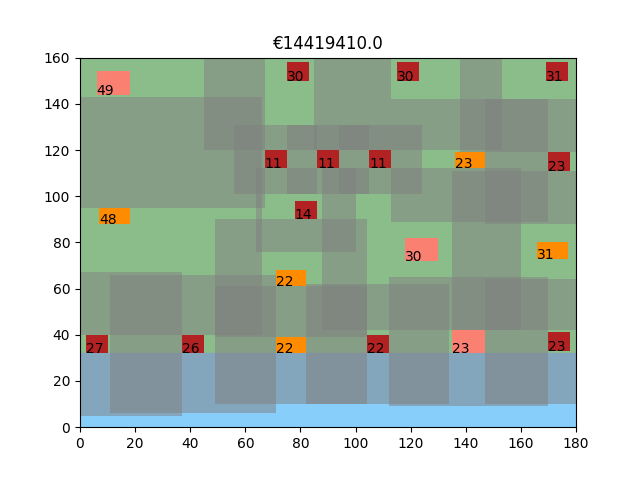
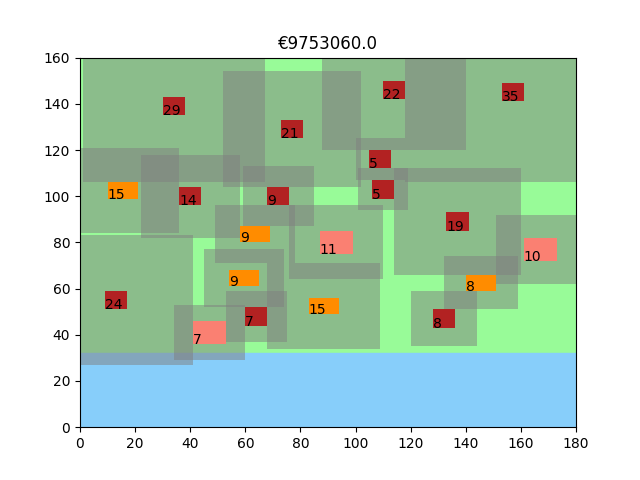
alternatief hillclimber 2 toegevoegd

diff --git a/code/algorithms/hillclimber2.py b/code/algorithms/hillclimber2.py
@@ -3,7 +3,7 @@ from copy import deepcopy
 from code.classes.Amstelhaege import Amstelhaege
 from code.algorithms.random import random
 import time
-from random import shuffle
+from random import shuffle, choice
 
 class Hillclimber_2:
     """
@@ -36,33 +36,76 @@ class Hillclimber_2:
     def run(self, timeout):
         random(self.amstelhaege)
         old_price = self.amstelhaege.price
-        #new_price = self.amstelhaege.price + 1
         timeout_start = time.time()
         while time.time() < timeout_start + timeout:
-            for house in self.amstelhaege.houses:
-                shuffle(self.directions)
-                new_price = self.amstelhaege.price + 1
-                #print(self.directions)
-                for direction in self.directions:
-                    #print(f"{house.id} direction {direction}")
-                    while new_price > old_price:
-                        initial_x = house.x_left
-                        initial_y = house.y_bottom
-                        old_price = self.get_price()
-                        new_coordinates = self.hillclimber2_move(house, direction)
+            # for house in self.amstelhaege.houses:
+            house = choice(self.amstelhaege.houses)
+            shuffle(self.directions)
+            new_price = self.amstelhaege.price + 1
+            for direction in self.directions:
+                while new_price > old_price:
+                    initial_x = house.x_left
+                    initial_y = house.y_bottom
+                    old_price = self.get_price()
+                    new_coordinates = self.hillclimber2_move(house, direction)
 
-                        house.move(-100, -100)
-                        
-                        if self.amstelhaege.check_location(new_coordinates[0], new_coordinates[1], house.width, house.length, house.free_area):
-                            house.move(new_coordinates[0], new_coordinates[1])
-                        else: 
-                            house.move(initial_x, initial_y)
-                        #print(f"house {house.id} coordinates {house.x_left} {house.y_bottom}")
-                        new_price = self.get_price()
+                    house.move(-100, -100)
                     
-                        if new_price < old_price:
-                            house.move(initial_x, initial_y)
-                            self.amstelhaege.get_free_space()
-                            self.amstelhaege.calculate_worth()
-        
+                    if self.amstelhaege.check_location(new_coordinates[0], new_coordinates[1], house.width, house.length, house.free_area):
+                        house.move(new_coordinates[0], new_coordinates[1])
+                    else: 
+                        house.move(initial_x, initial_y)
+
+                    new_price = self.get_price()
+                
+                    if new_price < old_price:
+                        house.move(initial_x, initial_y)
+                        self.amstelhaege.get_free_space()
+                        self.amstelhaege.calculate_worth()
+
         return self.amstelhaege
+
+    # def find_best_direction(self, house):
+    #     best_direction = None
+    #     for direction in self.directions:
+    #         x = house.x_left
+    #         y = house.y_bottom
+
+    #         old_price = self.get_price()
+    #         new_coordinates = self.hillclimber2_move(house, direction)
+
+    #         house.move(-100, -100)
+            
+    #         if self.amstelhaege.check_location(new_coordinates[0], new_coordinates[1], house.width, house.length, house.free_area):
+    #             house.move(new_coordinates[0], new_coordinates[1])
+    #         else: 
+    #             house.move(x, y)
+
+    #         new_price = self.get_price()
+        
+    #         if new_price < old_price:
+    #             house.move(x, y)
+    #         elif new_price > old_price:
+    #             best_direction = direction
+        
+    #     return best_direction
+
+    # def run(self, timeout):
+    #     random(self.amstelhaege)
+    #     timeout_start = time.time()
+    #     while time.time() < timeout_start + timeout:
+    #         # for house in self.amstelhaege.houses:
+    #         house = choice(self.amstelhaege.houses)
+    #         old_price = self.amstelhaege.price
+    #         new_price = self.amstelhaege.price + 1
+        
+    #         while new_price > old_price:
+    #             old_price = self.get_price()
+    #             best_direction = self.find_best_direction(house)
+    #             if best_direction is not None:
+    #                 best_coordinates = self.hillclimber2_move(house, best_direction)
+    #                 house.move(best_coordinates[0], best_coordinates[1])
+    #             new_price = self.get_price()
+    #             # print(f"house{house.id} best dir {best_direction}")
+    
+    #     return self.amstelhaege

diff --git a/code/helpers/repeat.py b/code/helpers/repeat.py
@@ -28,7 +28,7 @@ def repeat(amstelhaege, iterations, algorithm):
 
         elif algorithm == 'hillclimber2':
             hillclimber2 = Hillclimber_2(amstelhaege_copy)
-            amstelhaege_copy = hillclimber2.run(30)
+            amstelhaege_copy = hillclimber2.run(10)
 
         new_score = amstelhaege_copy.price
 
